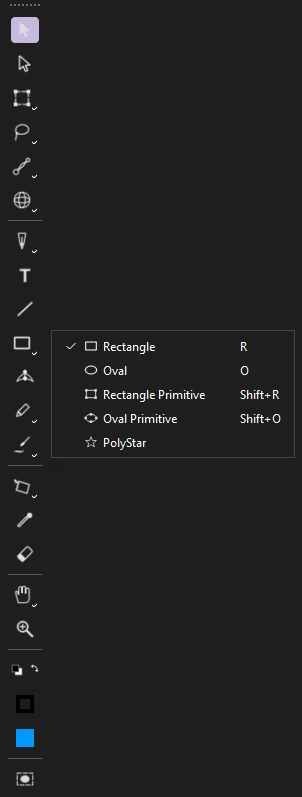
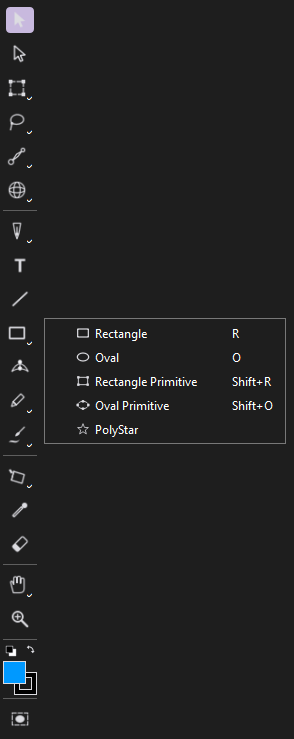
Docs: the color well and the Tools panel adding columns

diff --git a/docs/workspace.html b/docs/workspace.html
@@ -51,17 +51,17 @@
 
 <p>The Tools panel starts as a column on the left. Related tools share a slot: a small corner mark on a button means there is more than one tool in it. <strong>Press and hold</strong> the button to see the others, and the one you pick takes over the slot. Every tool's shortcut key works even while its tool is hidden in a slot.</p>
 
-<p>The tools flow to fill the panel. Drag its edge to make it wider and they arrange themselves in as many columns as fit; dock it along the top or bottom of the window and they run in rows instead. Drag the row of grip dots at its end to move the panel, or double-click the grip to float it or dock it again.</p>
+<p>The tools flow to fill the panel. Drag its edge to make it wider and they arrange themselves in as many columns as fit; dock it along the top or bottom of the window and they run in rows instead. When the window is too short for every tool in the columns you chose, the panel adds columns so none is cut off, and goes back to your columns when there is room again; along the top or bottom it adds rows the same way. Drag the row of grip dots at its end to move the panel, or double-click the grip to float it or dock it again.</p>
 
 <p>To rearrange the tools, choose <span class="menu-path">Window &rsaquo; Edit Toolbar...</span>, or right-click the Tools panel and choose <strong>Edit Toolbar...</strong>. Drag a tool into a slot to group it there, between slots to give it a slot of its own, or under <strong>Hidden</strong> to take it off the panel; a hidden tool still works by its key. The first tool in a slot is the one shown. <strong>Add Line</strong> adds a divider between sections, and <strong>Reset</strong> puts back Phoenix's own layout.</p>
 
 <div class="split">
-  <figure class="inline" style="margin:0"><img src="assets/shots/toolbox.webp" alt="The Tools panel with the shape slot's flyout open, listing Rectangle, Oval, Rectangle Primitive, Oval Primitive and PolyStar" width="302" height="797"></figure>
+  <figure class="inline" style="margin:0"><img src="assets/shots/toolbox.webp" alt="The Tools panel with the shape slot's flyout open, listing Rectangle, Oval, Rectangle Primitive, Oval Primitive and PolyStar, and the fill and stroke colors under the tools" width="294" height="739"></figure>
   <div>
     <p>Below the tools are:</p>
     <ul>
-      <li><strong>Black and white</strong>, which resets to a black stroke and white fill, and <strong>Swap colors</strong>, which exchanges the stroke and fill colors: the two small buttons side by side.</li>
-      <li>The <strong>stroke</strong> and <strong>fill</strong> color swatches. The stroke is drawn as an outline in its color, the fill as a solid square. Click one to choose a color, including its transparency.</li>
+      <li>The <strong>stroke</strong> and <strong>fill</strong> colors, as two overlapping squares: the fill a solid square at the top left, the stroke a square ring at the bottom right. Click one to bring it to the front and choose its color, including its transparency. A red line across one means no fill or no stroke.</li>
+      <li><strong>Black and white</strong>, which resets to a black stroke and white fill, and <strong>Swap colors</strong>, which exchanges the stroke and fill colors. In one column they sit in a row above the squares; wider, the squares grow and the two buttons take the corners beside them.</li>
       <li><strong>Object Drawing</strong> (<kbd>J</kbd>), which decides whether new shapes merge with what is under them. See <a href="drawing-models.html">Merge and object drawing</a>.</li>
     </ul>
     <p>Hold <kbd>Ctrl</kbd> with any tool to use the Selection tool for a moment. See <a href="drawing-tools.html">Drawing tools</a> for every tool and its options.</p>

diff --git a/docs/color.html b/docs/color.html
@@ -33,7 +33,7 @@
 
 <h2>Picking colors</h2>
 
-<p>The quickest way to set colors is the pair of swatches after the tools in the toolbox: the stroke swatch comes first, drawn as an outline, and the fill swatch, a solid square, after it. Click either one to open a color picker, where you can also set transparency (alpha). The two small buttons above them set a black stroke and white fill, or swap the stroke and fill colors.</p>
+<p>The quickest way to set colors is the pair of overlapping swatches after the tools in the toolbox: the fill, a solid square, at the top left, and the stroke, a square ring, at the bottom right. Click either one to bring it to the front and open a color picker, where you can also set transparency (alpha). A red line across a swatch means no fill or no stroke. The two small buttons beside them set a black stroke and white fill, or swap the stroke and fill colors.</p>
 
 <p>The Tool tab shows the same two colors under <strong>Color and Style</strong>, each with a checkbox to turn it off. To change the colors of artwork that is already drawn, select it with the Selection tool and use the swatches on the Object tab, where the fill also has an alpha percentage. A shape filled with a gradient or bitmap shows <strong>Edit...</strong> there, which opens its fill in the Color panel; change it and click <strong>Apply to Selection</strong> to put it back.</p>
 

diff --git a/docs/changelog.html b/docs/changelog.html
@@ -34,6 +34,13 @@
 
 <p class="lead">What changed in each release of Phoenix, newest first.</p>
 
+<h2 id="vunreleased">Unreleased</h2>
+
+<ul>
+  <li>The Tools panel's colors are one unit: overlapping fill and stroke squares, the one last clicked on top, with Black and White and Swap beside them, growing to fit a wider panel; a red line shows no fill or no stroke</li>
+  <li>The Tools panel adds columns when the window is too short to show every tool, and goes back to the columns you chose when there is room; along the top or bottom it adds rows</li>
+</ul>
+
 <h2 id="v0-18-0">0.18.0</h2>
 
 <ul>

diff --git a/CHANGELOG.md b/CHANGELOG.md
@@ -2,6 +2,11 @@
 
 What changed in each release of Phoenix, newest first.
 
+## Unreleased
+
+- The Tools panel's colors are one unit: overlapping fill and stroke squares, the one last clicked on top, with Black and White and Swap beside them, growing to fit a wider panel; a red line shows no fill or no stroke
+- The Tools panel adds columns when the window is too short to show every tool, and goes back to the columns you chose when there is room; along the top or bottom it adds rows
+
 ## 0.18.0
 
 - Strokes drawn with FLA files' art and pattern paint brushes draw on the stage and in exports and SWF movies, and save as they were; the Paint Brush can draw with the file's brushes, listed under Brushes in this document
